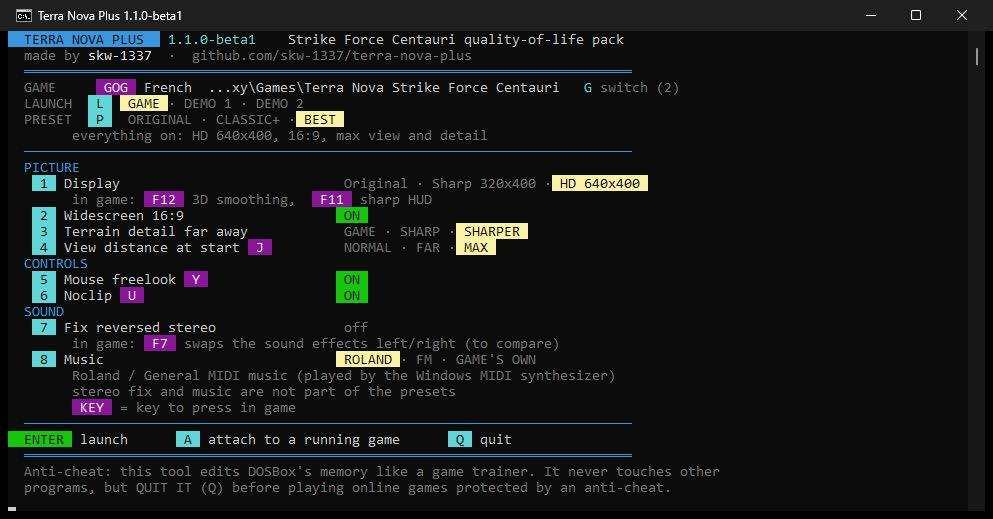
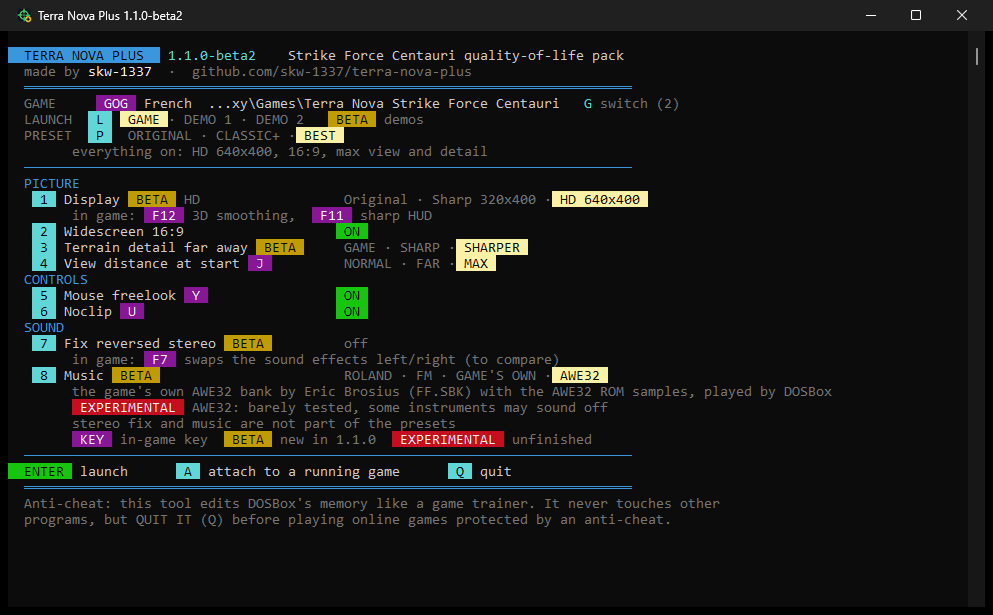
README: beta 2

Changed region(s): [[0.0, 0.0, 0.8429, 0.9557], [0.999, 0.0308, 1.0, 0.0617], [0.6556, 0.1541, 0.6868, 0.185]]

diff --git a/README.md b/README.md
@@ -4,12 +4,13 @@
 
 ## News
 
-**1.1.0 beta is out**, [grab it here](https://github.com/skw-1337/terra-nova-plus/releases/tag/v1.1.0-beta1) and tell me what breaks. The stereo fix and the demos come from ideas by [![zjorz](https://img.shields.io/badge/zjorz-ff8c00?style=flat-square)](https://www.ttlg.com/forums/member.php?u=77813) on TTLG, thanks!
+**1.1.0 beta 2 is out**, [grab it here](https://github.com/skw-1337/terra-nova-plus/releases/tag/v1.1.0-beta2) and tell me what breaks. The stereo fix, the demos and the AWE32 music come from ideas by [![zjorz](https://img.shields.io/badge/zjorz-ff8c00?style=flat-square)](https://www.ttlg.com/forums/member.php?u=77813) on TTLG, thanks!
 
 - the game in **640x400**: the 3D view drawn at twice the width (French GOG exe only for now, English GOG/Steam is next)
 - launch the two **1996 demos** from the menu (GOG and Steam already ship them)
 - **reversed stereo fix** for DOSBox, and `F7` in game to compare
 - **Roland / General MIDI** music option, more terrain detail far away
+- beta 2: experimental **AWE32 music** from the game's own bank (you need to bring the AWE32 ROM yourself, see the beta README)
 - new launcher with presets and a GOG / Steam badge
 - view distance key moved from `I` to `J` (`I` is the game's infrared)
 
